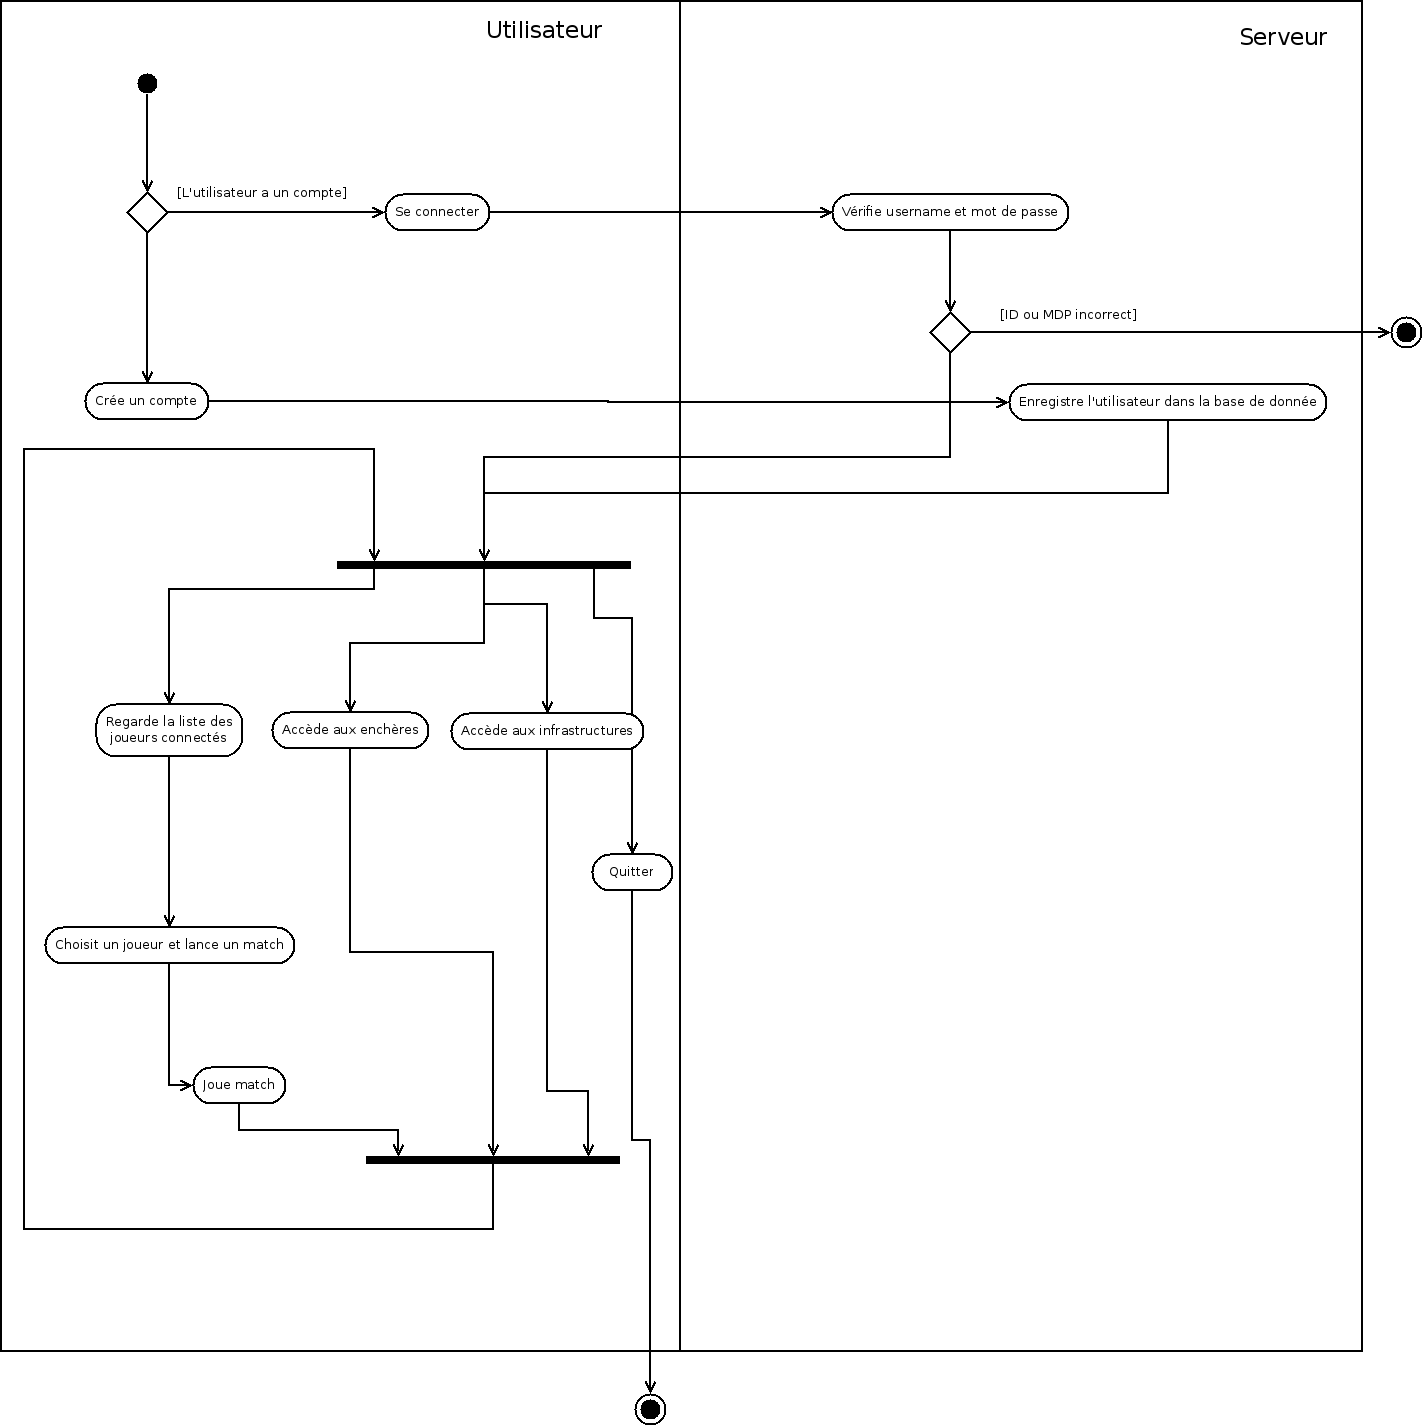
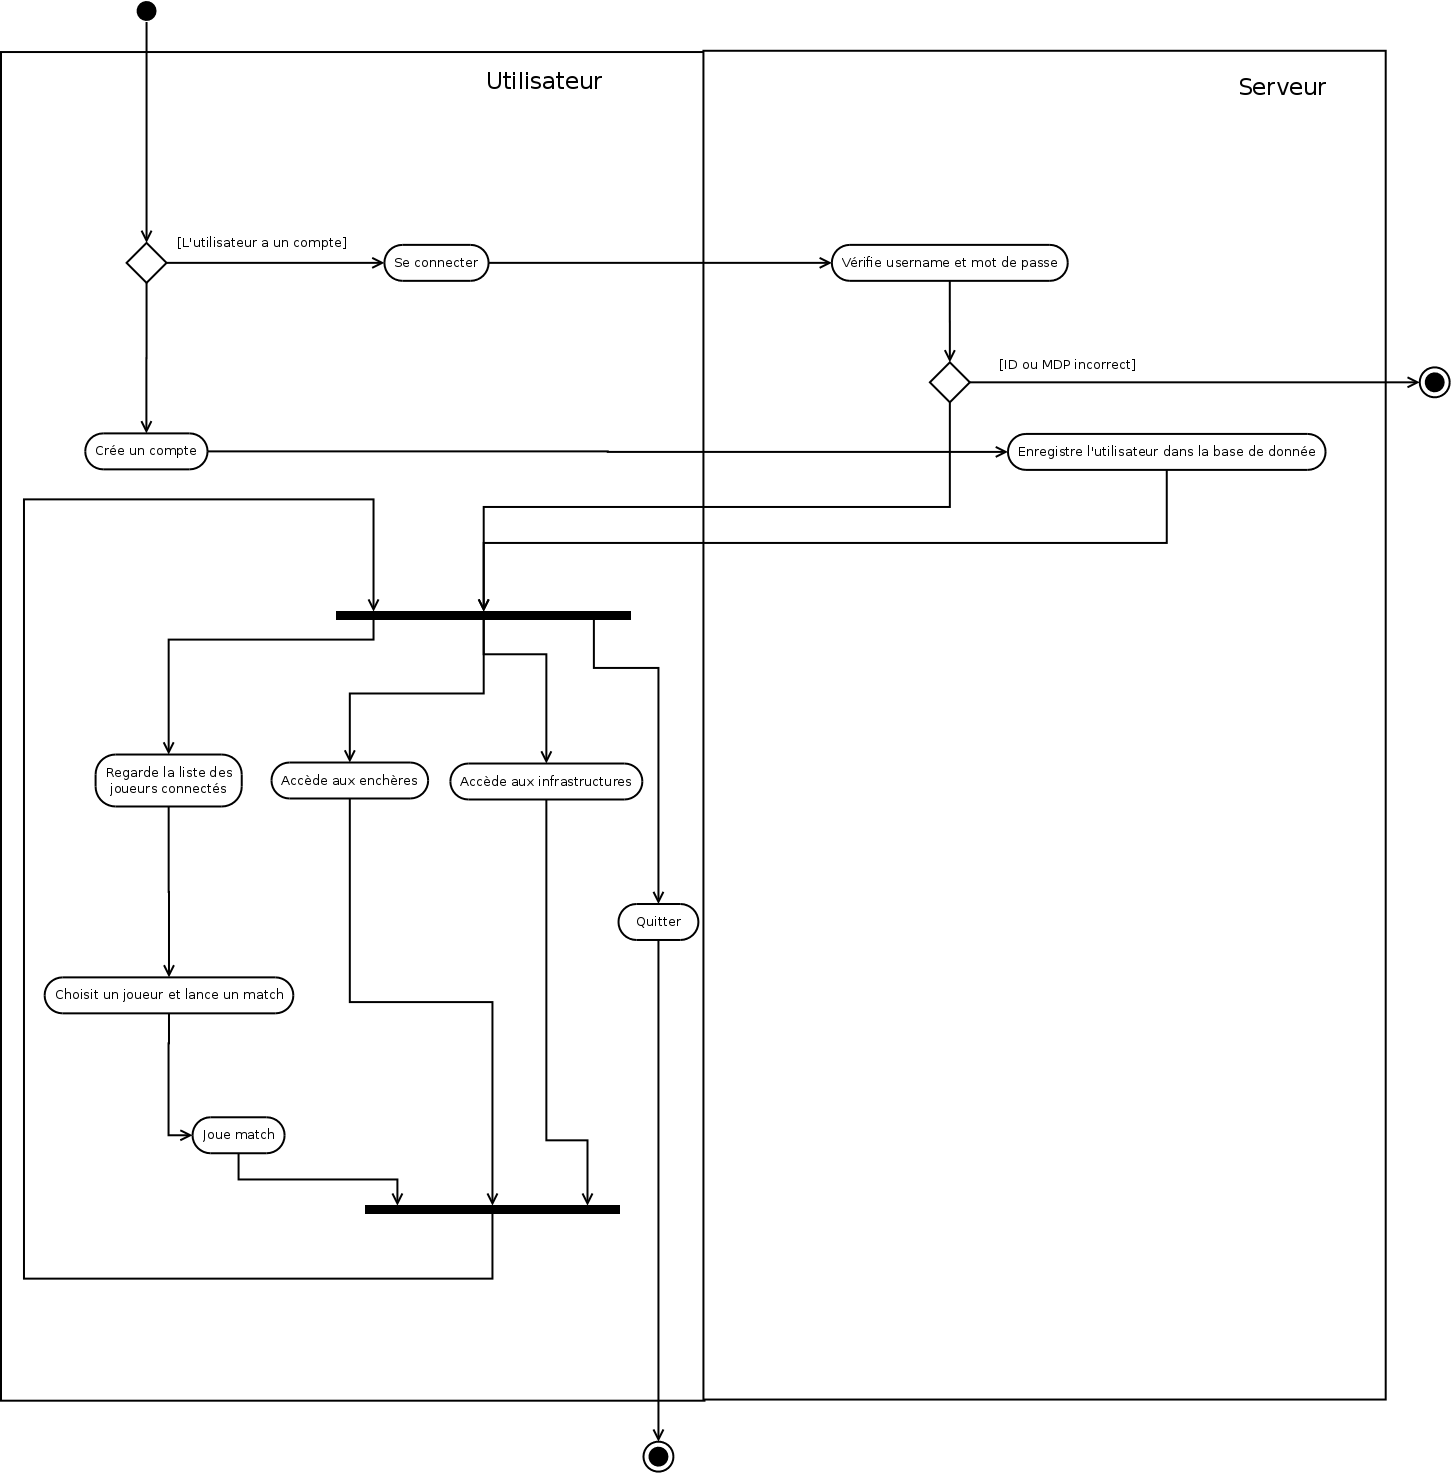
[srd] Inserted the activity diagrams in the srd

Changed region(s): [[0.0, 0.0, 1.0, 1.0], [0.3401, 0.0, 0.4329, 0.0617], [0.3092, 0.6788, 0.3401, 0.7097]]

diff --git a/srd/srd.tex b/srd/srd.tex
@@ -68,6 +68,9 @@ En ce qui concerne la gestion du \gls{club}, l'\gls{utilisateur} aura la possibi
     \item[0.7] (19/12/13) : Corrections et ajout des diagrammes au document - Bruno, Tsotne
     \item[1.0] (20/12/13) : Délivrable pour la phase 1 - Equipe
     \item[1.1] (16/02/13) : Correction de fautes d'orthographes et remplissage de l'historique - Bruno
+    \item[1.2] (18/02/13) : Ajout et correction de diagrammes de classe - Bruno
+    \item[1.3] (20/02/13) : Modification du type de document et ajout des chapitres - Romain
+    \item[1.4] (21/02/13) : Ajout des diagrammes d'activité - Bruno
 \end{description}
 
 
@@ -345,6 +348,8 @@ En ce qui concerne la gestion du \gls{club}, l'\gls{utilisateur} aura la possibi
 
 
 \section{Design et fonctionnement}
+\subsection{Diagrammes de classe}
+
 \newpage
 \begin{figure}[H]
     \vspace*{-3cm}
@@ -354,6 +359,7 @@ En ce qui concerne la gestion du \gls{club}, l'\gls{utilisateur} aura la possibi
     \caption{\label{3} Diagramme de classe représentant toutes les structures de données}
 \end{figure}
 \newpage
+
 \begin{figure}[H]
     \vspace*{-3cm}
     \makebox[\linewidth]{
@@ -361,8 +367,8 @@ En ce qui concerne la gestion du \gls{club}, l'\gls{utilisateur} aura la possibi
     }
     \caption{\label{3} Diagramme de classe représentant les structures de données intervenant pour un match}
 \end{figure}
-\newpage
 
+\newpage
 \begin{figure}[H]
     \vspace*{-3cm}
     \makebox[\linewidth]{
@@ -379,6 +385,35 @@ En ce qui concerne la gestion du \gls{club}, l'\gls{utilisateur} aura la possibi
     \caption{\label{3} Diagramme de classe représentant les structures de données intervenant pour la partie client}
 \end{figure}
 
+%\newpage
+\section{Diagrammes d'activité}
+\subsection{Diagrammes d'activité}
+
+\begin{figure}[h]
+    %\vspace*{-3cm}
+    \makebox[\linewidth]{
+        \includegraphics[scale = 0.77]{uml/auctionHouseActivityDiagram.png}
+    }
+    \caption{\label{3} Diagramme d'activité représentant le déroulement d'une enchère}
+\end{figure}
+
+\begin{figure}[h]
+    %\vspace*{-3cm}
+    \makebox[\linewidth]{
+        \includegraphics[scale = 0.3]{uml/matchActivityDiagram.png}
+    }
+    \caption{\label{3} Diagramme d'activité représentant le déroulement d'un match}
+\end{figure}
+
+\begin{figure}[h]
+    %\vspace*{-3cm}
+    \makebox[\linewidth]{
+        \includegraphics[scale = 0.24]{uml/globalActivityDiagram.png}
+    }
+    \caption{\label{3} Diagramme d'activité représentant la procédure normale d'une partie de jeu}
+\end{figure}
+
+
 \chapter{Justification de la bibliothèque graphique}
 \section{Qt}
 \subsection{Avantages}
@@ -393,7 +428,7 @@ En ce qui concerne la gestion du \gls{club}, l'\gls{utilisateur} aura la possibi
 \subsection{Inconvénients}
 \begin{itemize}
     \item Lourd
-    \item Possède des packages qui ne nous serviront pas, étant donné que nous ne n'utiliserons que la partie graphique de Qt
+    \item Possède des packages qui ne nous serviront pas, étant donné que nous ne n'utiliserons que la partie graphique de Qt.
 \end{itemize}
 \section{GTK+}
 \subsection{Avantages}
